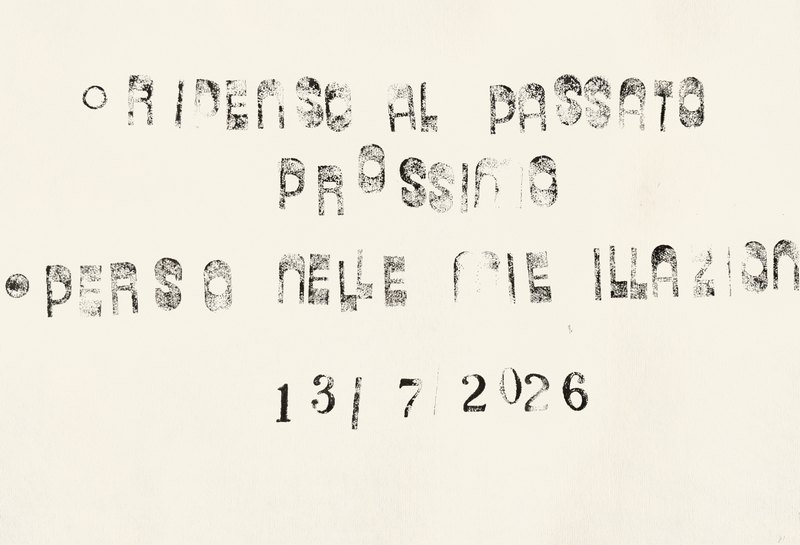
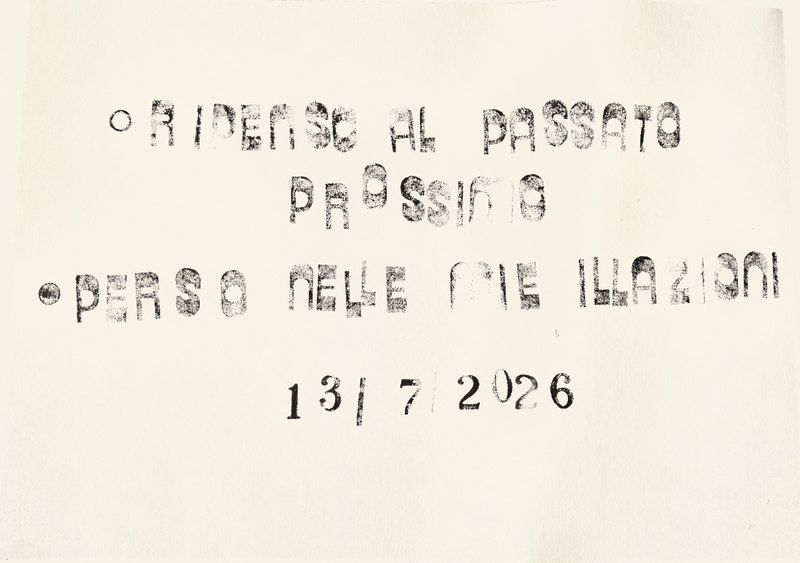
fix: 13/7 crop meno aggressivo (bbox foglio + paint bianco)

diff --git a/index.html b/index.html
@@ -682,11 +682,11 @@ section#timbri{ padding-top: clamp(160px, 18vw, 240px); }
       <figcaption class="work-caption"><span class="work-date">14/7/26</span></figcaption>
     </figure>
     <figure class="work">
-      <div class="work-frame" style="--ratio: 68.11%;">
+      <div class="work-frame" style="--ratio: 70.33%;">
         <img src="foto_definitive/Timbro_2026-07-13.jpg"
              srcset="foto_definitive/thumbs/Timbro_2026-07-13.jpg 800w, foto_definitive/Timbro_2026-07-13.jpg 1800w"
              sizes="(max-width: 720px) 92vw, 720px"
-             width="1800" height="1226"
+             width="1800" height="1266"
              alt="13/7/26" loading="lazy" decoding="async" />
       </div>
       <figcaption class="work-caption"><span class="work-date">13/7/26</span></figcaption>
